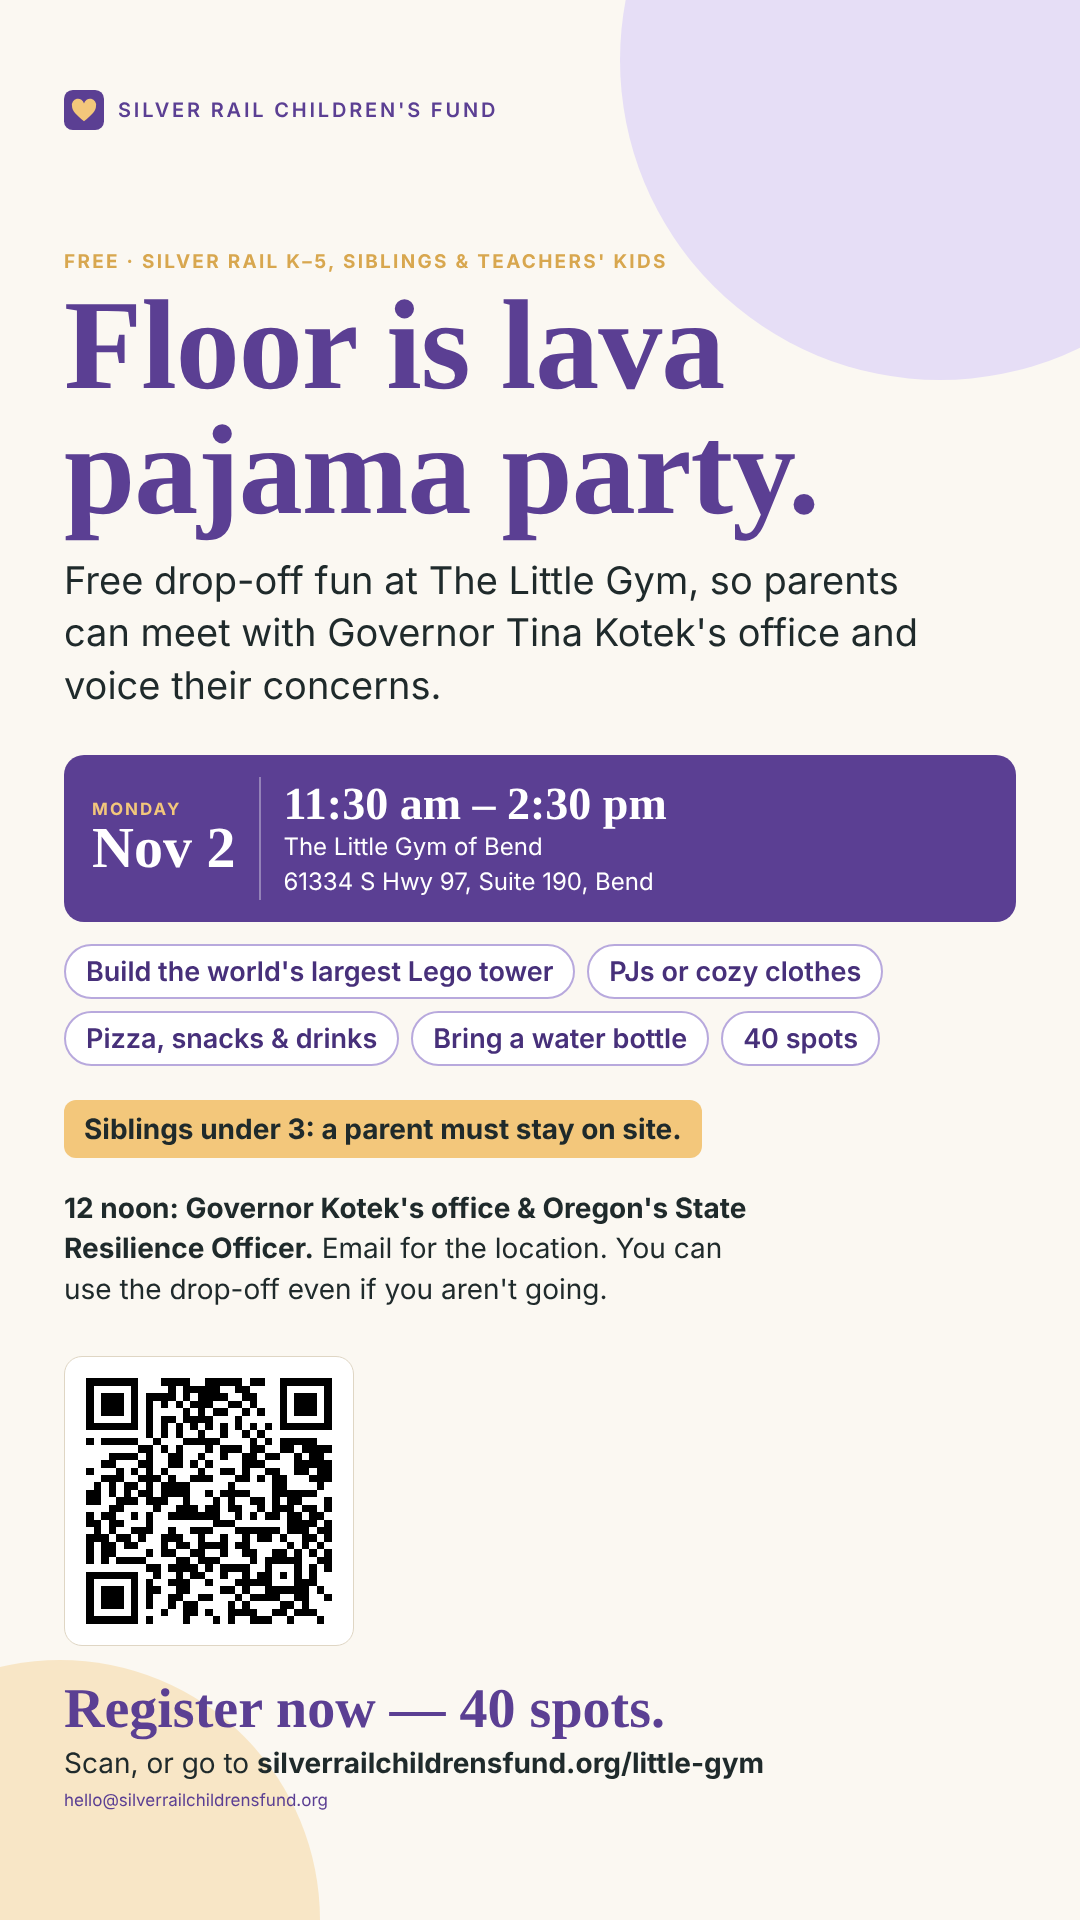
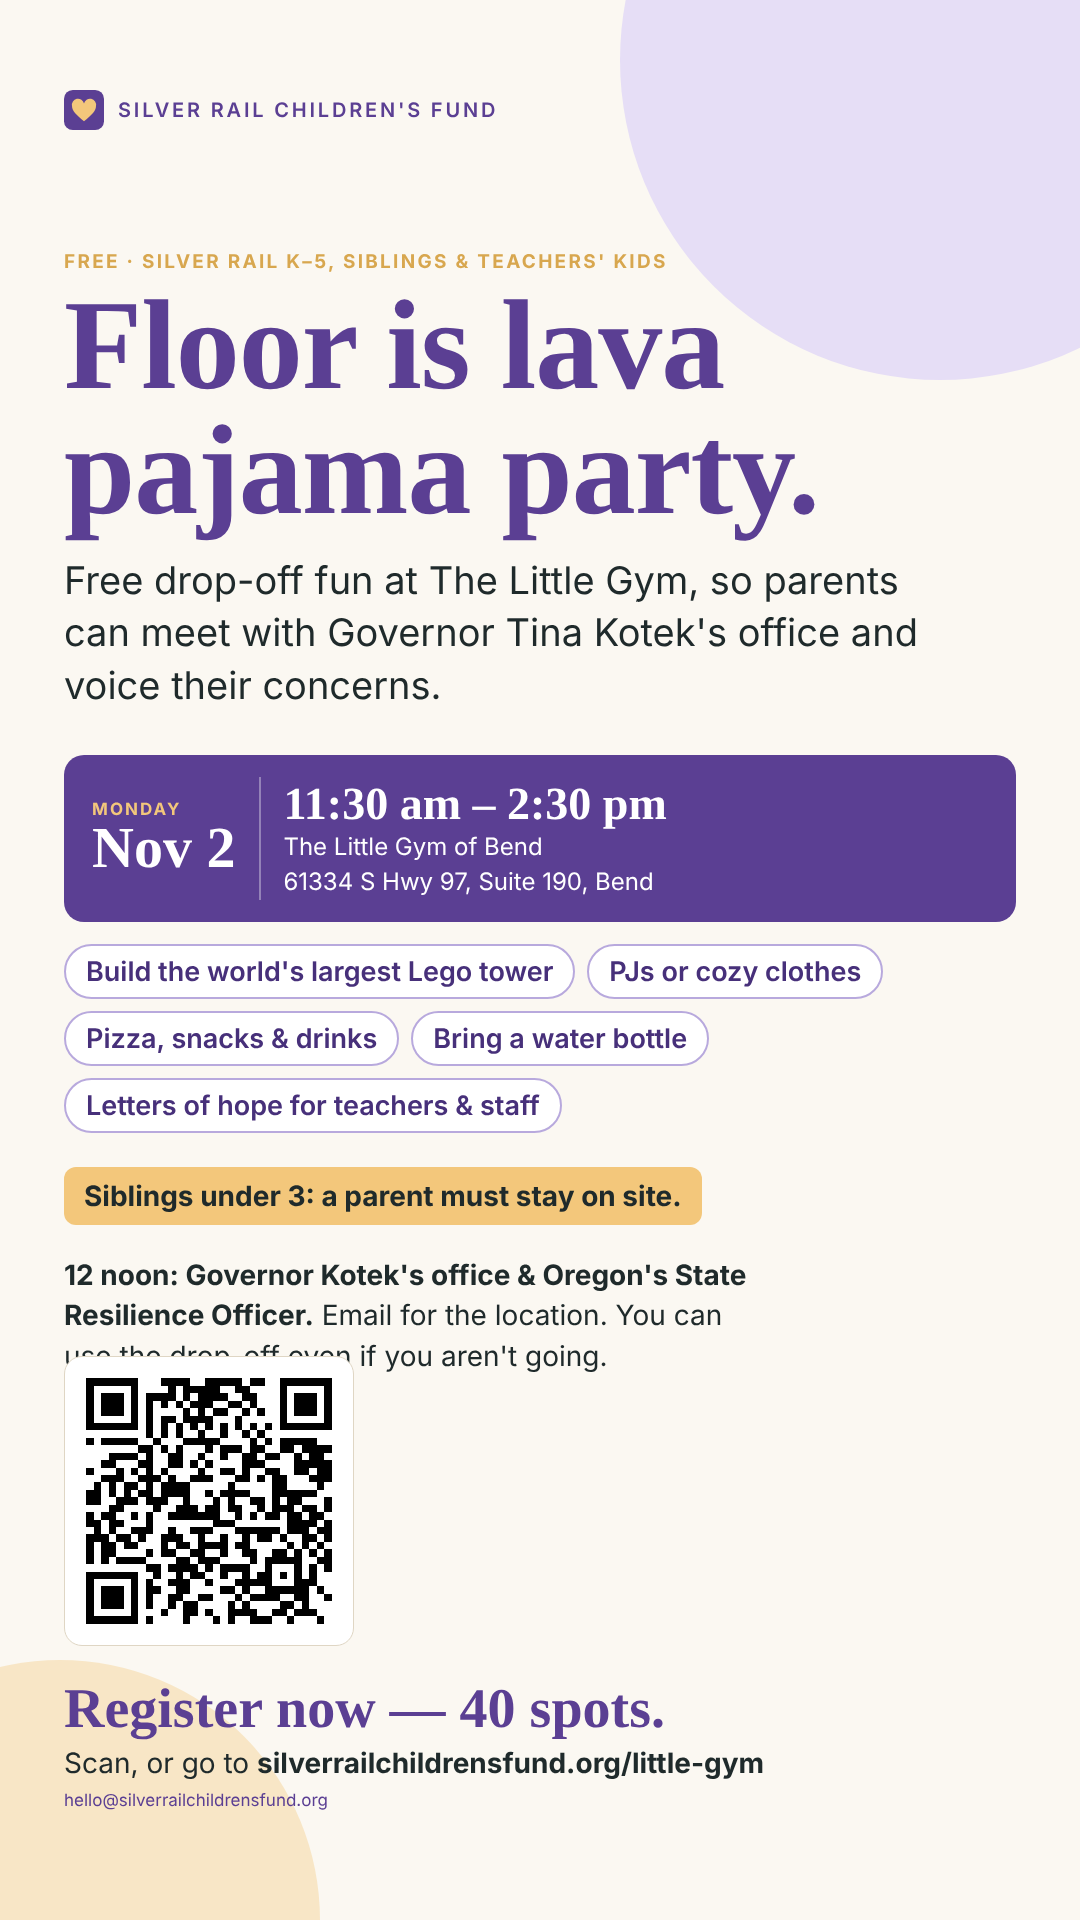
Little Gym event: letters of hope to teachers and staff
Claude-Session: https://claude.ai/code/session_01H4F1UEwoh4LvrPWY2tqQt5

Changed region(s): [[0.0611, 0.5625, 0.7028, 0.7188], [0.6722, 0.5312, 0.7944, 0.5625]]

diff --git a/index.html b/index.html
@@ -269,7 +269,7 @@ footer.sf .sf-legal a{color:var(--ink-2)}
       <div>
         <div class="eyebrow">Monday, Nov 2 · 11:30 am–2:30 pm · free</div>
         <h2 style="margin-bottom:.3em">Floor is lava pajama party at The Little Gym.</h2>
-        <p>Free drop-off pajama party for Silver Rail K–5 students, siblings, and teachers' and staff kids at 61334 S Hwy 97, Suite 190: the floor is lava, a giant Lego tower, and pizza, snacks, and drinks. Drop off and come to the 12 noon meeting with Governor Tina Kotek's office and Oregon's State Resilience Officer to voice your concerns as parents (email hello@silverrailchildrensfund.org for the location), or just take a breath. Siblings under 3: a parent stays on site. 40 spots.</p>
+        <p>Free drop-off pajama party for Silver Rail K–5 students, siblings, and teachers' and staff kids at 61334 S Hwy 97, Suite 190: the floor is lava, a giant Lego tower, letters of hope for their teachers and staff, and pizza, snacks, and drinks. Drop off and come to the 12 noon meeting with Governor Tina Kotek's office and Oregon's State Resilience Officer to voice your concerns as parents (email hello@silverrailchildrensfund.org for the location), or just take a breath. Siblings under 3: a parent stays on site. 40 spots.</p>
         <p style="margin:0"><a class="btn" href="little-gym.html">Register now — 40 spots</a> &nbsp; <a href="little-gym.html" style="font-weight:600">Details →</a></p>
       </div>
     </div>

diff --git a/parents.html b/parents.html
@@ -155,7 +155,7 @@ footer.sf .sf-legal a{color:var(--ink-2)}
       <div>
         <div class="eyebrow">Monday, Nov 2 · 11:30 am–2:30 pm · free</div>
         <h2 style="margin-bottom:.3em">Floor is lava pajama party at The Little Gym.</h2>
-        <p>Free drop-off pajama party for Silver Rail K–5 students, siblings, and teachers' and staff kids at 61334 S Hwy 97, Suite 190: the floor is lava, a giant Lego tower, and pizza, snacks, and drinks. Drop off and come to the 12 noon meeting with Governor Tina Kotek's office and Oregon's State Resilience Officer to voice your concerns as parents (email hello@silverrailchildrensfund.org for the location), or just take a breath. Siblings under 3: a parent stays on site. 40 spots.</p>
+        <p>Free drop-off pajama party for Silver Rail K–5 students, siblings, and teachers' and staff kids at 61334 S Hwy 97, Suite 190: the floor is lava, a giant Lego tower, letters of hope for their teachers and staff, and pizza, snacks, and drinks. Drop off and come to the 12 noon meeting with Governor Tina Kotek's office and Oregon's State Resilience Officer to voice your concerns as parents (email hello@silverrailchildrensfund.org for the location), or just take a breath. Siblings under 3: a parent stays on site. 40 spots.</p>
         <p style="margin:0"><a class="btn" href="little-gym.html">Register now — 40 spots</a> &nbsp; <a href="little-gym.html" style="font-weight:600">Details →</a></p>
       </div>
     </div>

diff --git a/little-gym.html b/little-gym.html
@@ -178,7 +178,7 @@ footer.sf .sf-legal a{color:var(--ink-2)}
   <div class="wrap">
     <div class="eyebrow">K–5 drop-off · Monday, November 2 · Bend</div>
     <h1>Floor is lava pajama party.</h1>
-    <p class="lede"><b>Monday, November 2, 11:30 am to 2:30 pm at The Little Gym of Bend.</b> A free, drop-off friendly pajama party for Silver Rail K–5 students, their siblings, and the children of Silver Rail teachers and staff. The floor is lava, they'll build the world's largest Lego tower, and pizza, snacks, and drinks are included.</p>
+    <p class="lede"><b>Monday, November 2, 11:30 am to 2:30 pm at The Little Gym of Bend.</b> A free, drop-off friendly pajama party for Silver Rail K–5 students, their siblings, and the children of Silver Rail teachers and staff. The floor is lava, they'll build the world's largest Lego tower and write letters of hope and support to their teachers and the Silver Rail staff, and pizza, snacks, and drinks are included.</p>
     <p class="lede" style="font-size:1.05rem">Drop off and come to the <b>12 noon</b> meeting with Governor Tina Kotek's office and Oregon's State Resilience Officer, and voice your concerns as parents. Email <a href="mailto:hello@silverrailchildrensfund.org">hello@silverrailchildrensfund.org</a> for the location. <b>You can use the drop-off even if you aren't going to the meeting.</b></p>
     <a class="btn" href="#register">Register now — 40 spots</a>
   </div>
